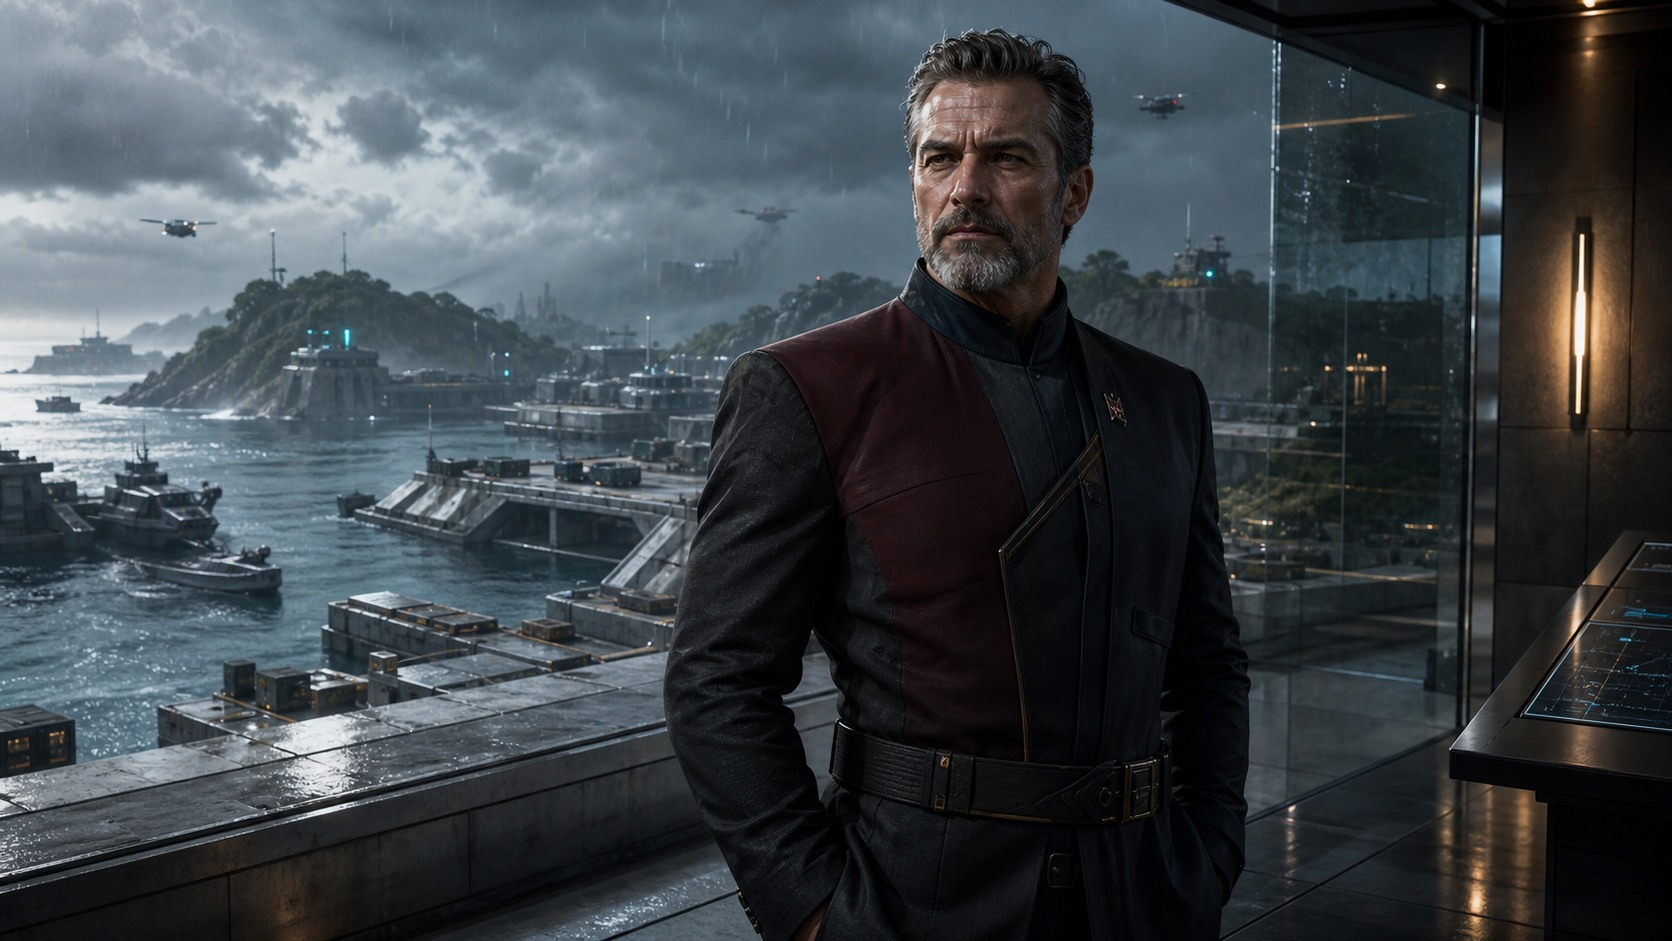
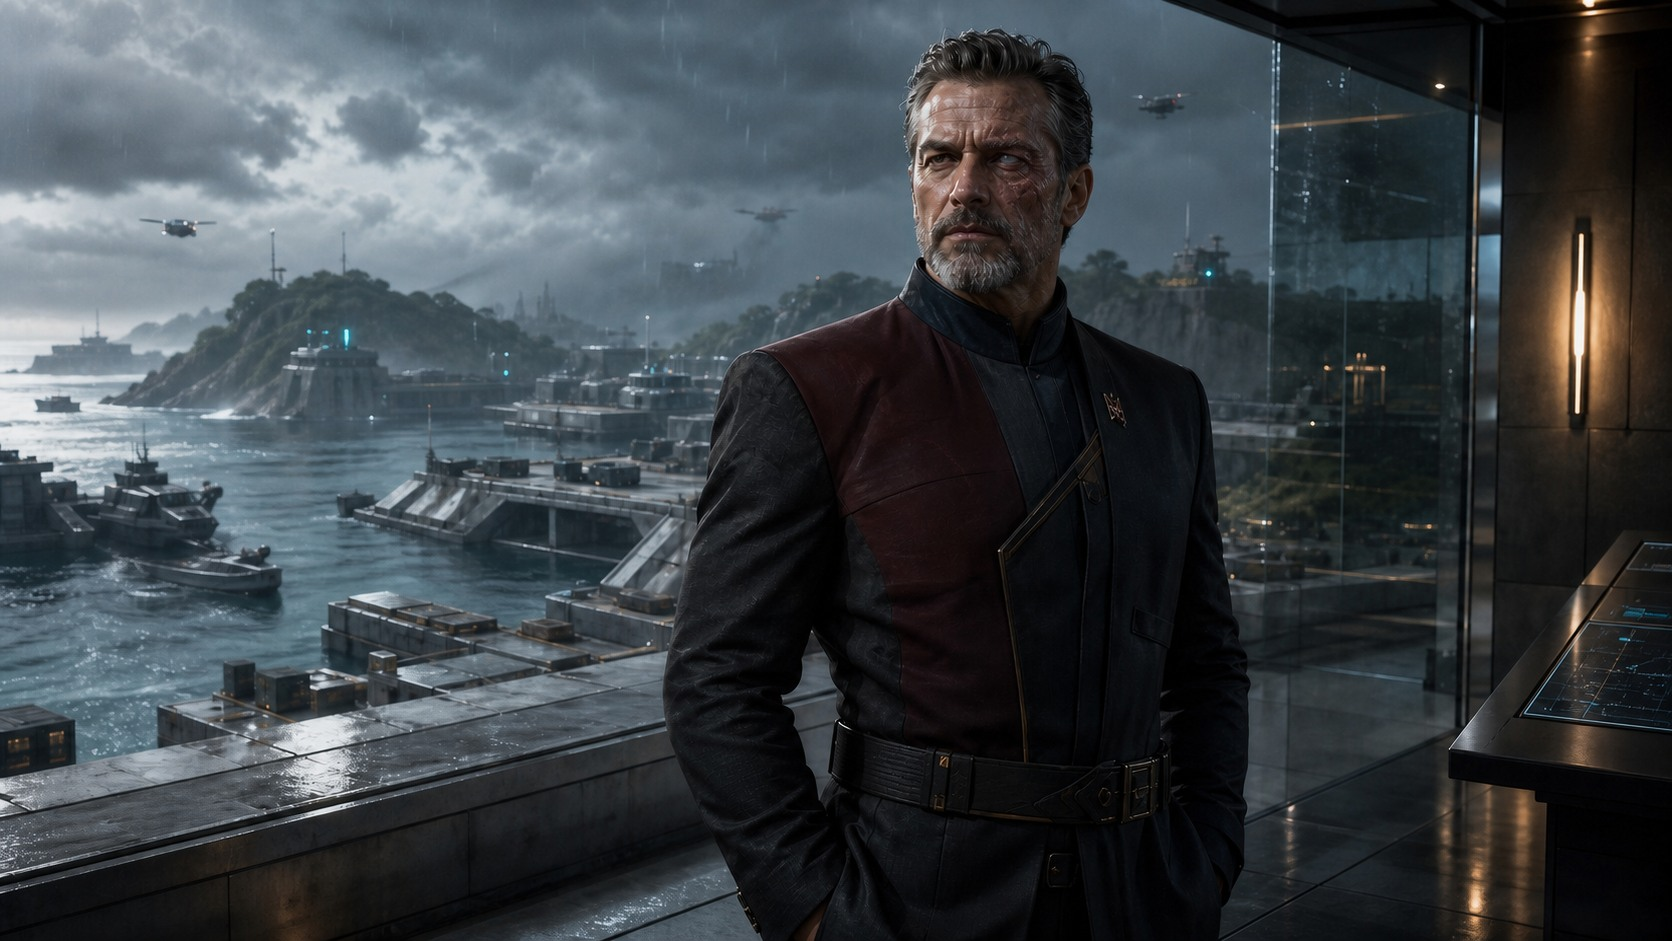
fix(codex): restore Abraham facial scarring

diff --git a/Docs/BUILD_STATUS.md b/Docs/BUILD_STATUS.md
@@ -509,5 +509,5 @@ This is the implementation source of truth. Checked items are built and locally 
 - [x] Diffed the live CANON CHARACTER, CREATURE, FACTION, REGION, and SYSTEM entries against their real resolvers and disk conventions: all 35 factions and all 38 systems already resolved art; the remaining apparent gaps were fourteen finished but unwired assets plus two dossiers too thin to illustrate without inventing canon
 - [x] Wrote `Docs/CODEX_ART_STYLE.md` from the existing art library, fixing the shared palette, lighting, material language, framing, Essence/corruption treatment, Mature 17+ tone, and the protected-mystery boundary for future work
 - [x] Registered the Arcadian Devil and True Demons on the races shelf, and registered twelve Arcadian regions/POIs after inspecting each image against its dossier; the region masters were normalized from their oversized PNG sources to the resolver's optimized 1600x900 JPEG contract
-- [x] With owner approval to settle Abraham Islay Kane's visual identity, created and registered dedicated character key art grounded in the existing Arcadian canon: visibly human, late-middle-aged, military-genteel, oxblood and charcoal rather than a literal devil; The Docks remains on an honest fallback because it still has only its title, no body, and no parent
+- [x] With owner approval to settle Abraham Islay Kane's visual identity, created and registered dedicated character key art grounded in the existing Arcadian canon: visibly human, early sixties, military-genteel, oxblood and charcoal rather than a literal devil, with extensive healed facial trauma concentrated on his left side and a blinded milky left eye; The Docks remains on an honest fallback because it still has only its title, no body, and no parent
 - [x] Focused art tests pass (6/6), the full web suite passes (333/333), strict typecheck and lint pass, and authenticated development rendering returns 200 with Abraham's exact key-art source and no profile placeholder on both his character-library result and dossier; the active 210-asset Codex handoff release includes the 1672x941 JPEG and verifies all content hashes
